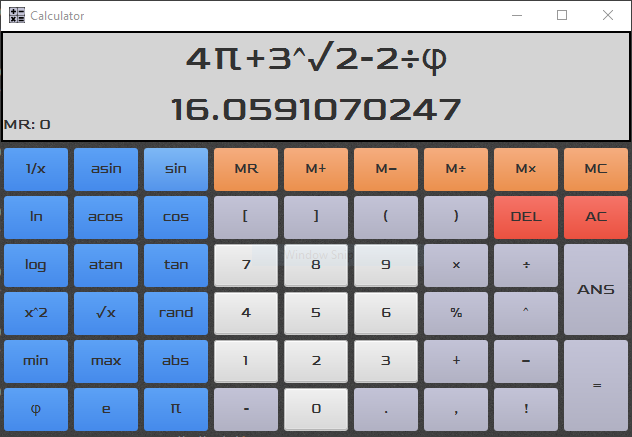
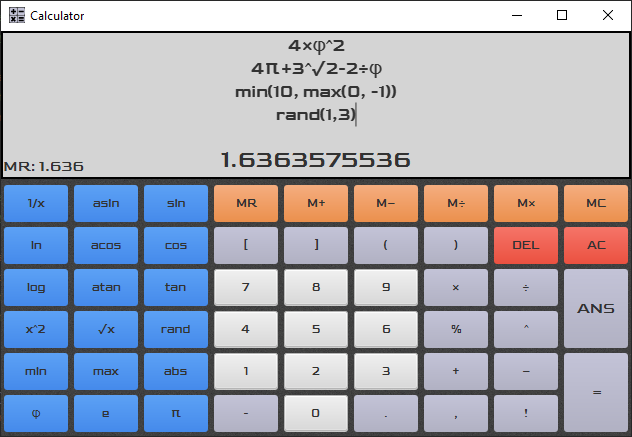
Updated output image and README

diff --git a/README.md b/README.md
@@ -1,14 +1,15 @@
 # Scientific Calculator
-This is a project that uses Java and JavaFX to create and design a graphical scientific calculator. This calculator allows the user to edit and evaluate common math expressions. The evaluation process is modeled after PEMDAS and thus considers operator precedence and operator associativity. 
+This is a project that uses Java and JavaFX to create and design a graphical scientific calculator. This calculator allows the user to edit and evaluate common math expressions. The evaluation process is modeled after PEMDAS and thus considers operator precedence and operator associativity.
 
 ## Features
 | Feature                    | Supported          |
 |:--------------------------:|:------------------:|
 | PEMDAS                     | :white_check_mark: |
 | Memory                     | :white_check_mark: |
-| Dynamic Resizing           | :white_check_mark: |
 | Named Functions            | :white_check_mark: |
 | Named Constants            | :white_check_mark: |
+| Resizable Window           | :white_check_mark: |
+| Operation History          | :white_check_mark: |
 | Editable Settings          | :x:                |
 | Custom User Functions      | :x:                |
 
